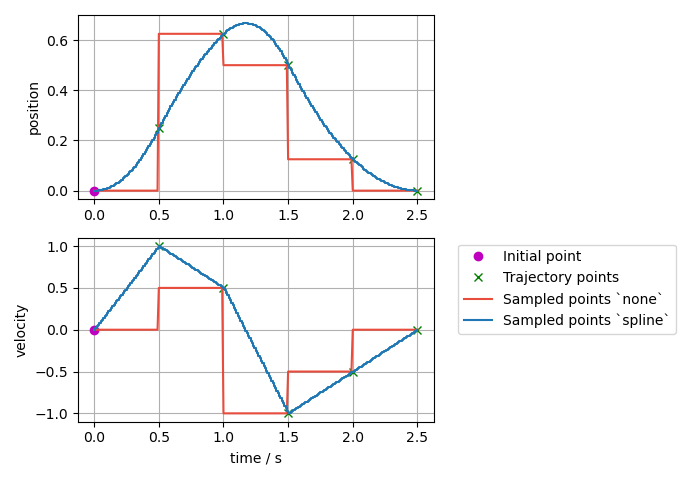
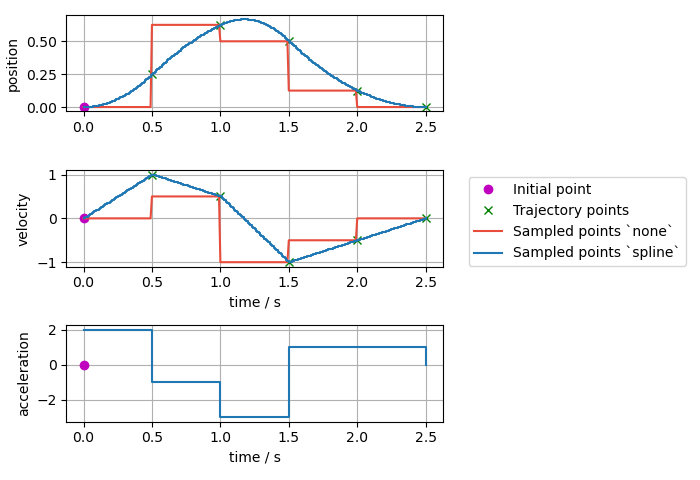
Add derivative output to figures

diff --git a/joint_trajectory_controller/doc/trajectory.rst b/joint_trajectory_controller/doc/trajectory.rst
@@ -1,7 +1,5 @@
 :github_url: https://github.com/ros-controls/ros2_controllers/blob/{REPOS_FILE_BRANCH}/joint_trajectory_controller/doc/trajectory.rst
 
-*Parts of this documentation were originally published in the ROS 1 wiki under the* `CC BY 3.0 license <http://creativecommons.org/licenses/by/3.0/>`_. *Citations are given in the respective section, but were adapted for the ROS 2 implementation.* [#f1]_
-
 Trajectory Representation
 ---------------------------------
 
@@ -10,60 +8,89 @@ Trajectories are represented internally with ``trajectory_msgs/msg/JointTrajecto
 Currently, two interpolation methods are implemented: ``none`` and ``spline``.
 By default, a spline interpolator is provided, but it's possible to support other representations.
 
+.. warning::
+  The user has to ensure that the correct inputs are provided for the trajectory, which are needed
+  by the controller's setup of command interfaces and PID configuration. There is no sanity check and
+  missing fields in the sampled trajectory might cause segmentation faults.
+
 Interpolation Method ``none``
 ^^^^^^^^^^^^^^^^^^^^^^^^^^^^^^
-It returns the initial point until the time for the first trajectory data point is reached. Then, it simply takes the next given datapoint. Additionally, it does not deduce trajectory from derivatives, i.e., one has to provide position and its derivatives as needed.
+It returns the initial point until the time for the first trajectory data point is reached. Then, it simply takes the next given datapoint.
 
-Interpolation Method ``spline`` [#f1]_
-^^^^^^^^^^^^^^^^^^^^^^^^^^^^^^^^^^^^^^^^
+.. warning::
+  It does not deduce (integrate) trajectory from derivatives, nor does it calculate derivatives.
+  I.e., one has to provide position and its derivatives as needed.
+
+Interpolation Method ``spline``
+^^^^^^^^^^^^^^^^^^^^^^^^^^^^^^^^^^^
 
 The spline interpolator uses the following interpolation strategies depending on the waypoint specification:
 
-* Linear: Only position is specified. Guarantees continuity at the position level. Discouraged because it yields trajectories with discontinuous velocities at the waypoints.
+* Linear:
 
-* Cubic: Position and velocity are specified. Guarantees continuity at the velocity level.
+  * Used, if only position is specified.
+  * Returns position and velocity
+  * Guarantees continuity at the position level.
+  * Discouraged because it yields trajectories with discontinuous velocities at the waypoints.
 
-* Quintic: Position, velocity and acceleration are specified: Guarantees continuity at the acceleration level.
+* Cubic:
+
+  * Used, if position and velocity are specified.
+  * Returns position, velocity, and acceleration.
+  * Guarantees continuity at the velocity level.
+
+* Quintic:
+
+  * Used, if position, velocity and acceleration are specified
+  * Returns position, velocity, and acceleration.
+  * Guarantees continuity at the acceleration level.
 
 Trajectories with velocity fields only, velocity and acceleration only, or acceleration fields only can be processed and are accepted, if ``allow_integration_in_goal_trajectories`` is true. Position (and velocity) is then integrated from velocity (or acceleration, respectively) by Heun's method.
-
-There will be no deduction of the time derivatives from position (or velocity) to velocity (or acceleration).
 
 Visualized Examples
 ^^^^^^^^^^^^^^^^^^^^^^^^^^^^^^^^
 To visualize the difference of the different interpolation methods and their inputs, different trajectories defined at a 0.5s grid and are sampled at a rate of 10ms.
 
-Sampled trajectory with linear spline if position is given only
+* Sampled trajectory with linear spline if position is given only:
 
 .. image:: spline_position.png
   :alt: Sampled trajectory with splines if position is given only
 
-Sampled trajectory with cubic splines if velocity is given only (no deduction for interpolation method ``none``)
+* Sampled trajectory with cubic splines if velocity is given only (no deduction for interpolation method ``none``):
 
 .. image:: spline_velocity.png
   :alt: Sampled trajectory with splines if velocity is given only
 
-Sampled trajectory with quintic splines if acceleration is given only (no deduction for interpolation method ``none``)
+* Sampled trajectory if position and velocity is given:
+
+.. note::
+  If the same integration method was used (``Trajectory`` class uses Heun's method), then the ``spline`` method this gives identical results as above where velocity only was given as input.
+
+.. image:: spline_position_velocity.png
+  :alt: Sampled trajectory if position and velocity is given
+
+* Sampled trajectory with quintic splines if acceleration is given only (no deduction for interpolation method ``none``):
 
 .. image:: spline_acceleration.png
   :alt: Sampled trajectory with splines if acceleration is given only
 
-Sampled trajectory if position, velocity, and acceleration points are given. If the same integration method was used (``Trajectory`` class uses Heun's method), then the ``spline`` method this gives identical results as above where acceleration only was given as input.
+* Sampled trajectory if position, velocity, and acceleration points are given:
+
+.. note::
+  If the same integration method was used (``Trajectory`` class uses Heun's method), then the ``spline`` method this gives identical results as above where acceleration only was given as input.
 
 .. image:: spline_position_velocity_acceleration.png
   :alt: Sampled trajectory with splines if position, velocity, and acceleration is given
 
-Sampled trajectory if position, velocity, and acceleration points are given with a nonzero initial point.
+* Sampled trajectory if position, velocity, and acceleration points are given with a nonzero initial point:
 
 .. image:: spline_position_velocity_acceleration_initialpoint.png
   :alt: Sampled trajectory with splines if position, velocity, and acceleration is given with nonzero initial point
 
-Sampled trajectory with splines if inconsistent position, velocity, and acceleration points are given. Interpolation method ``none`` only gives the next input points, while the ``spline`` interpolation method shows high overshoot to match the given trajectory points.
+* Sampled trajectory with splines if inconsistent position, velocity, and acceleration points are given:
+
+.. note::
+  Interpolation method ``none`` only gives the next input points, while the ``spline`` interpolation method shows high overshoot to match the given trajectory points.
 
 .. image:: spline_wrong_points.png
   :alt: Sampled trajectory with splines if inconsistent position, velocity, and acceleration is given
-
-
-.. rubric:: Footnote
-
-.. [#f1] Adolfo Rodriguez: `joint_trajectory_controller <http://wiki.ros.org/joint_trajectory_controller>`_
